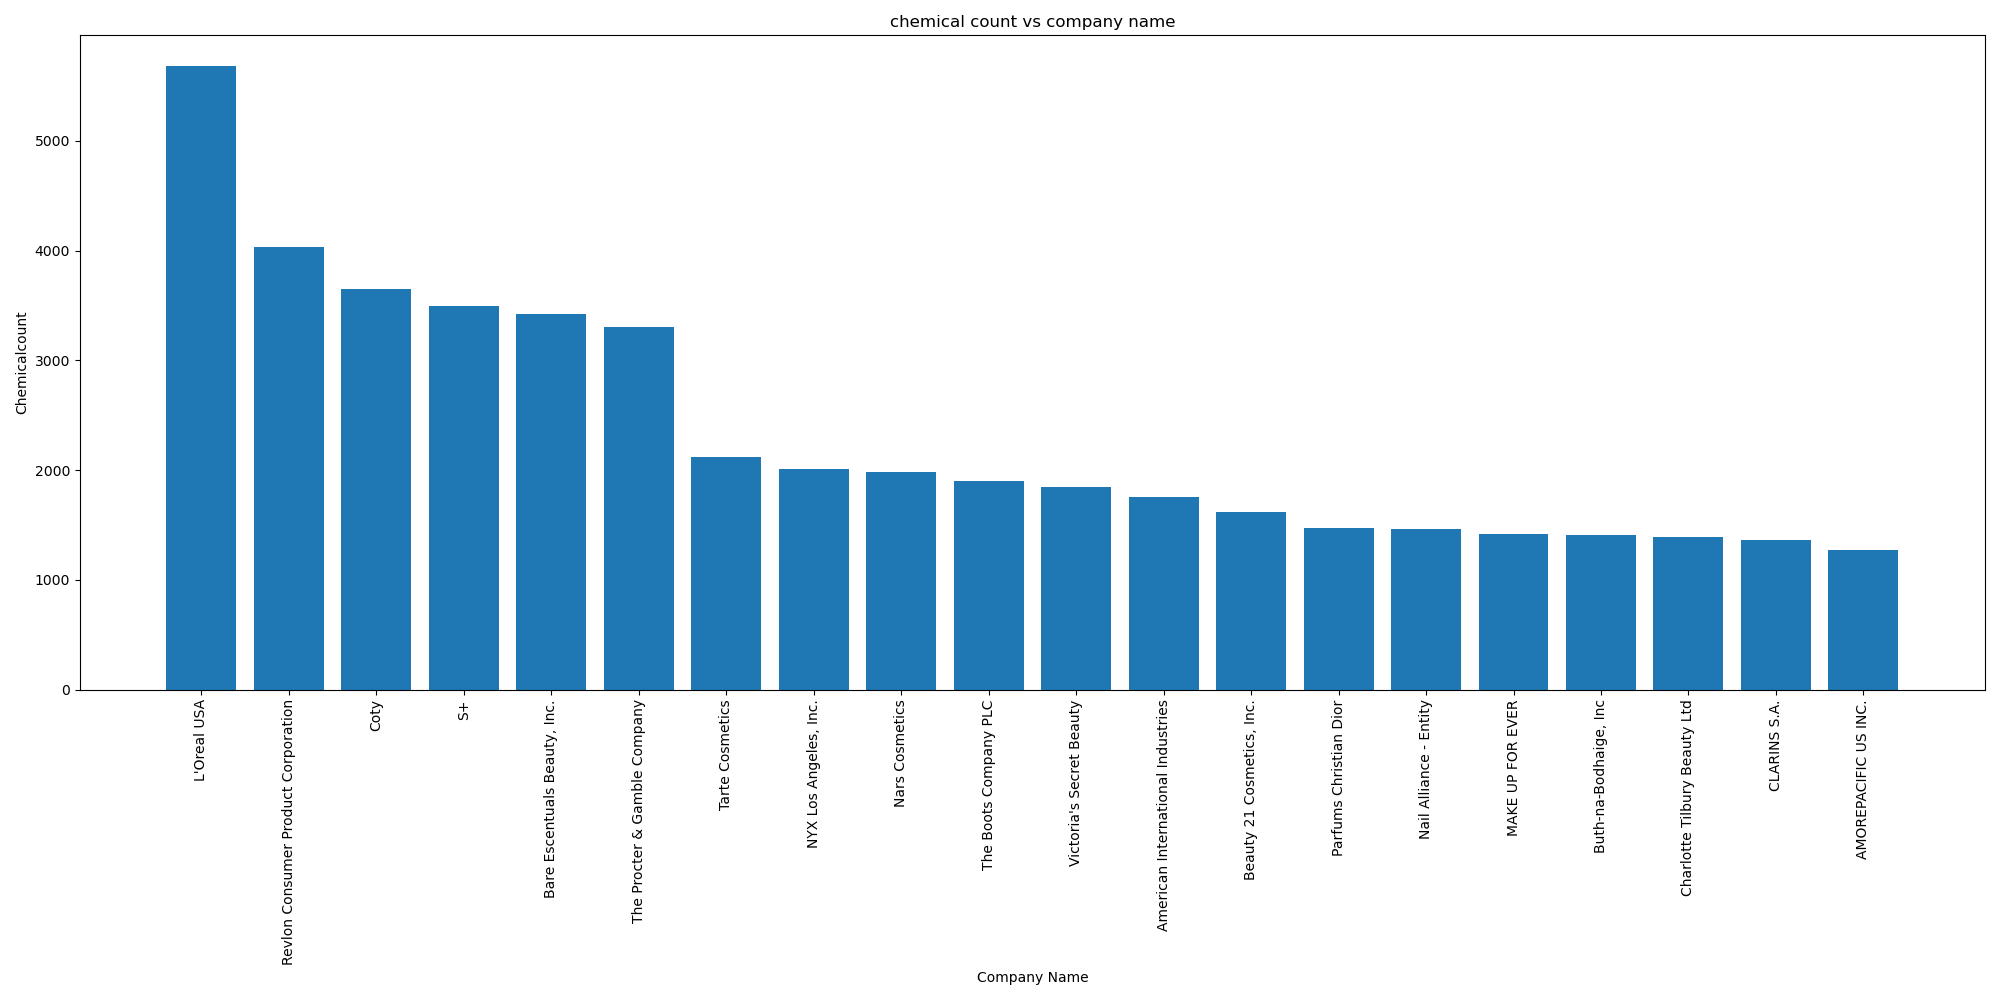
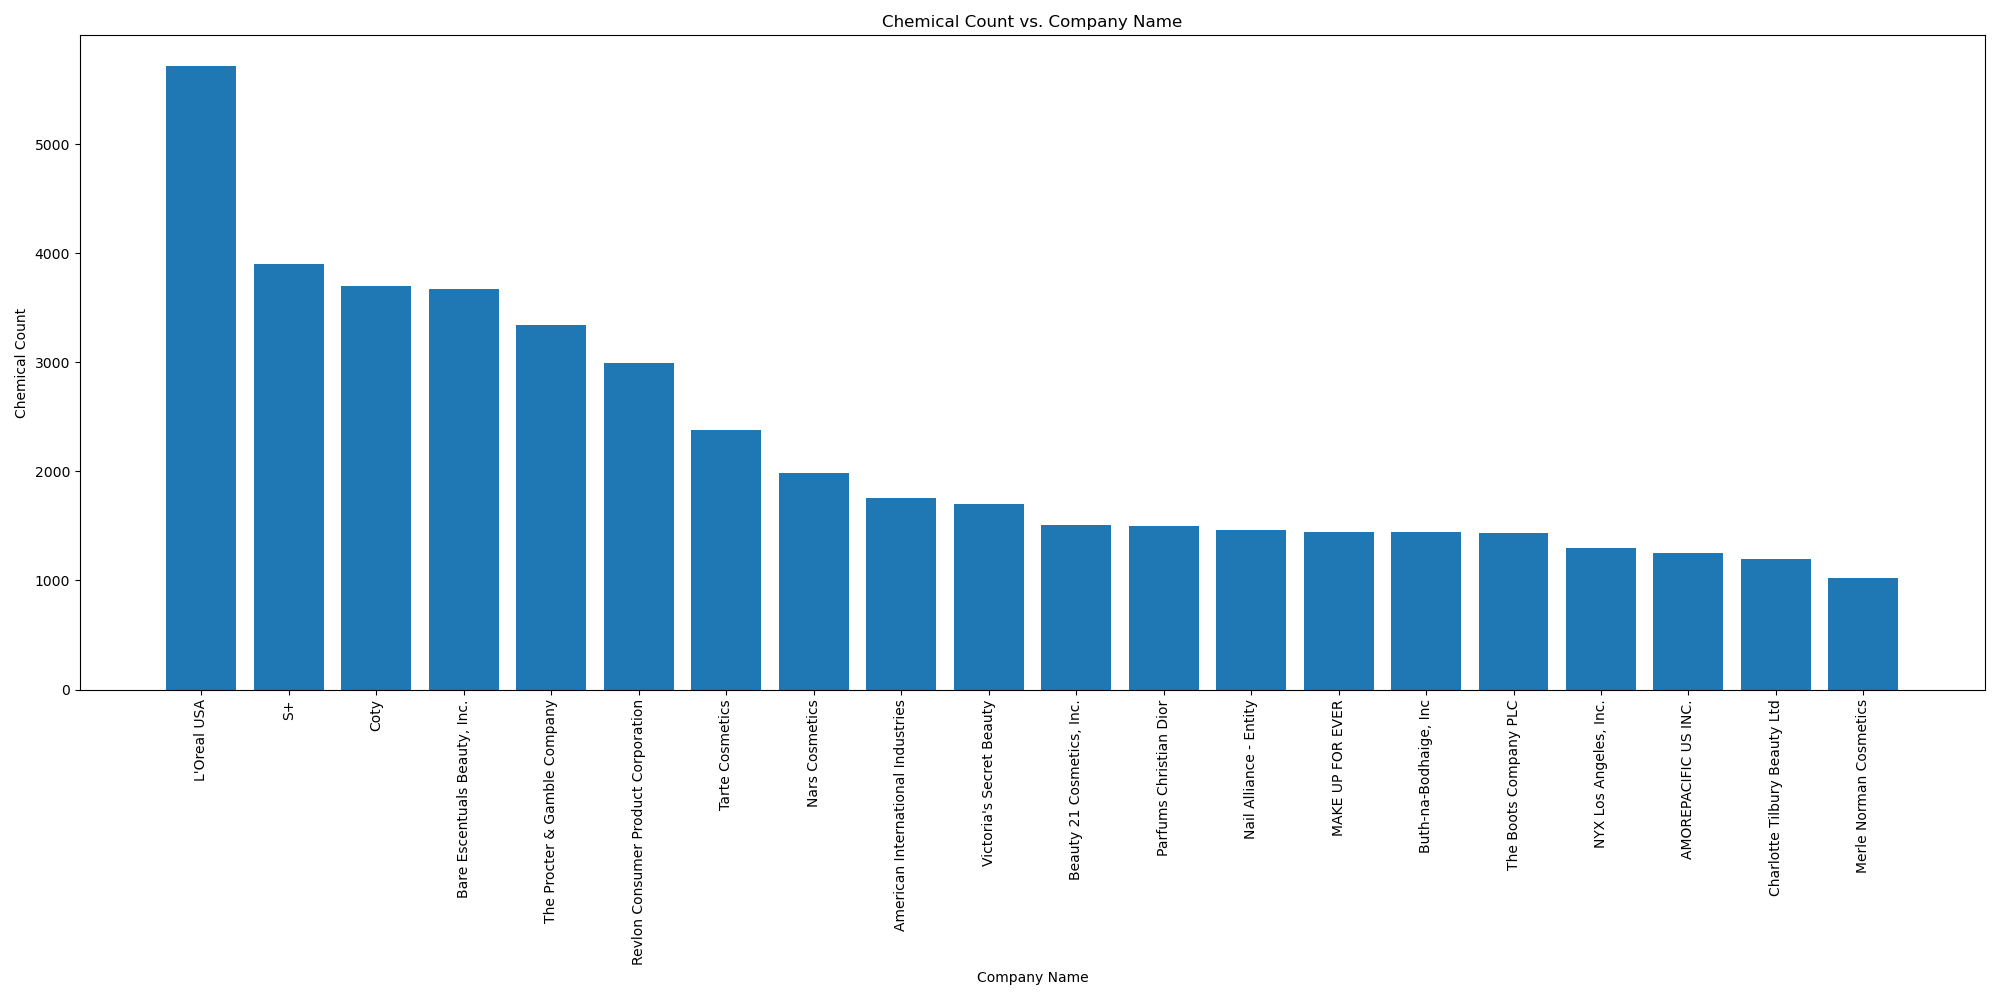
work

diff --git a/README.md b/README.md
@@ -35,4 +35,11 @@ In this project the data collected from cosmetic companies in California will be
 - Interpretation of Data
 
 
+## Q&A
+- Which companies have the highest frequency of hazardous chemicals?
 
+Our analysis reveals that every company reported at least one chemical in their products, with the maximum number of chemicals utilized by a single company reaching nine. Notably, L'Oréal emerged as the leader in chemical usage, reporting an astonishing total of 5,711 chemicals. However, it is crucial to highlight that the predominant chemical in their products is Titanium Dioxide, which has been associated with serious health concerns, including DNA damage, skin irritation, and carcinogenic effects when inhaled.
+
+Additionally, BareMinerals was identified as the top brand for chemical usage, particularly with 3,031 instances of Titanium Dioxide. Given its prevalence in our dataset, we aimed to investigate the other chemicals more thoroughly, excluding Titanium Dioxide. This deeper analysis led us to discover that Coty is the foremost company in chemical usage when Titanium Dioxide is not considered, with retinol being their primary chemical of concern. Retinol is known to have side effects such as skin irritation, increased sensitivity to sunlight, and potential teratogenic effects.
+
+Furthermore, our focused analysis on companies producing baby products indicated that Harmon Stores had the highest chemical counts for lead and cadmium. These heavy metals pose significant risks to child development, with cadmium in particular being linked to autism.
